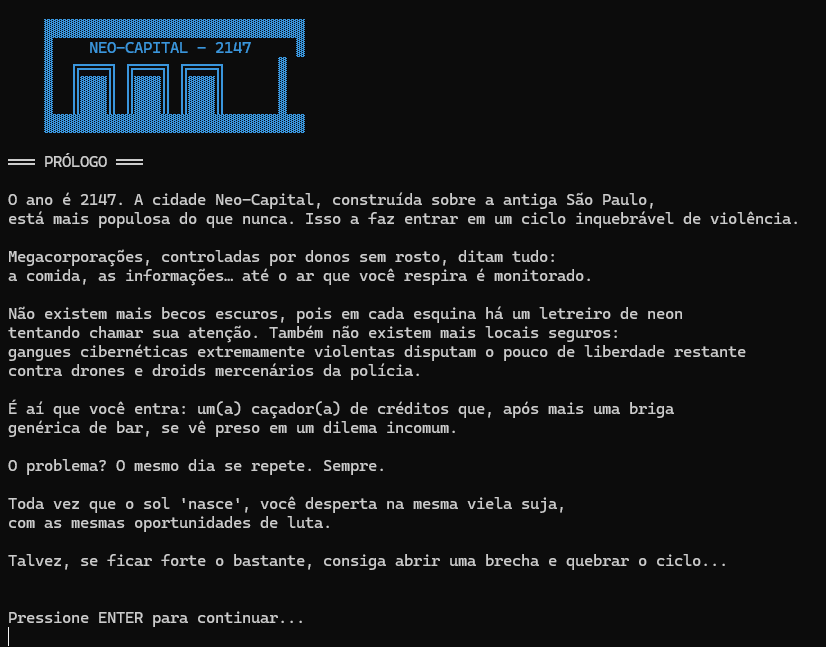
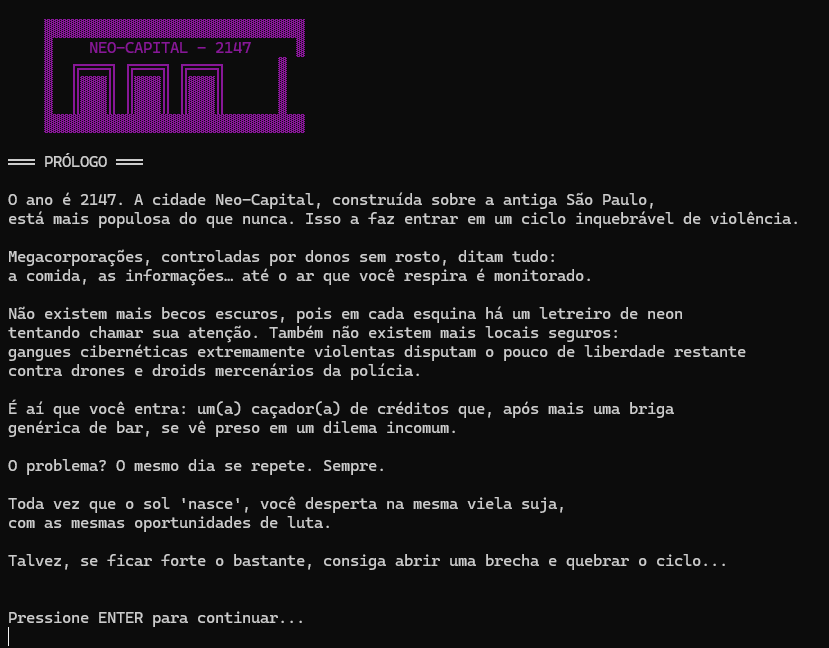
Atualização
Trocando cor do Projeto.

diff --git a/Chrome Shadows/Jogo_RPG/Jogo.cs b/Chrome Shadows/Jogo_RPG/Jogo.cs
@@ -30,7 +30,7 @@ namespace NeoCapitalRPG
         private void ExibirTituloJogo()
         {
             Console.Clear();
-            Console.ForegroundColor = ConsoleColor.Cyan;
+            Console.ForegroundColor = ConsoleColor.DarkMagenta;
             Console.WriteLine(@"
     ███╗   ██╗███████╗ ██████╗       ██████╗ █████╗ ██████╗ ██╗████████╗ █████╗ ██╗     
     ████╗  ██║██╔════╝██╔═══██╗     ██╔════╝██╔══██╗██╔══██╗██║╚══██╔══╝██╔══██╗██║     
@@ -39,7 +39,7 @@ namespace NeoCapitalRPG
     ██║ ╚████║███████╗╚██████╔╝     ╚██████╗██║  ██║██║     ██║   ██║   ██║  ██║███████╗
     ╚═╝  ╚═══╝╚══════╝ ╚═════╝       ╚═════╝╚═╝  ╚═╝╚═╝     ╚═╝   ╚═╝   ╚═╝  ╚═╝╚══════╝
     ");
-            Console.ForegroundColor = ConsoleColor.Red;
+            Console.ForegroundColor = ConsoleColor.Magenta;
             Console.WriteLine("                            ═══ CAÇADOR DE CRÉDITOS ═══");
             Console.ResetColor();
             Console.WriteLine("\n                              Neo-Capital - Ano 2147");
@@ -562,7 +562,7 @@ namespace NeoCapitalRPG
 
         private void ExibirArte(string tipo)
         {
-            Console.ForegroundColor = ConsoleColor.DarkCyan;
+            Console.ForegroundColor = ConsoleColor.DarkMagenta;
 
             switch (tipo)
             {
